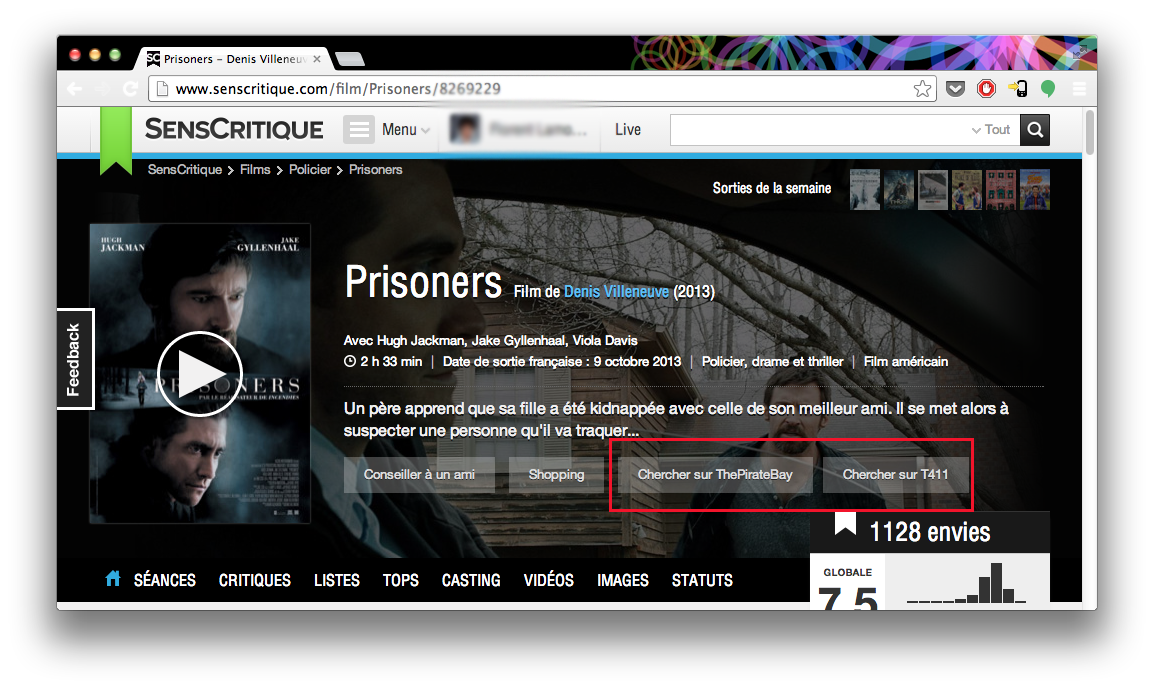
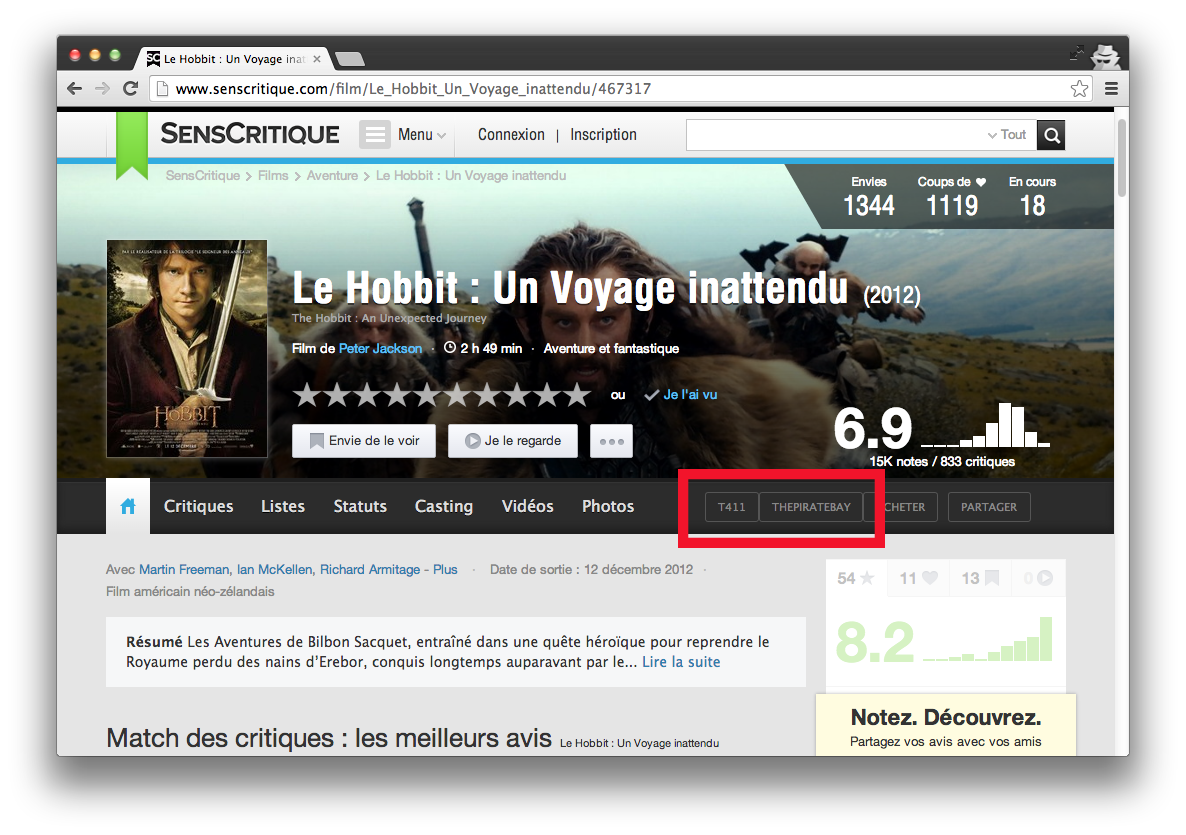
Updated for new design version

diff --git a/app/scripts/contentscript.js b/app/scripts/contentscript.js
@@ -3,9 +3,9 @@
 'use strict';
 
 function SensPirate() {
-	this.mediaCls = '.pco-cover-content';
-	this.mediaOriginalCls = 'h1.pco-cover-originaltitle';
-	this.mediaTitleCls = '.d-cover-title h1';
+	this.mediaCls = 'ul.d-menu-list';
+	this.mediaOriginalCls = '.pvi-product-originaltitle';
+	this.mediaTitleCls = 'h1.pvi-product-title';
 	this.tpbSearchUrl = 'http://thepiratebay.se/search/{media}/0/99/100,200';
 	this.t4SearchUrl = 'http://www.t411.me/torrents/search/?search={media}';
 
@@ -18,22 +18,28 @@ function SensPirate() {
 	};
 
 	this.createDownloadButton = function(cls, text, url) {
-		var btn = $('<a/>', {
-		    href: url,
-		    class: 'pco-cover-button '+cls,
+		var btn = $('<button/>', {
+
+		    class: 'pco-social-action '+cls,
 		    title: text,
 		    target:'_blank',
 		    text: text
+		});
+		btn.on("click", function() {
+			window.open(url);
 		});
 		return btn;
 	};
 
 	this.appendDownloadButtons = function() {
-		var tpbBtn = this.createDownloadButton('tpb','Chercher sur ThePirateBay',this.tpbSearchUrl.replace('{media}',this.getMediaTitle())),
-			t4Btn = this.createDownloadButton('t4','Chercher sur T411',this.t4SearchUrl.replace('{media}',this.getMediaTitle()));
+		var tpbBtn = this.createDownloadButton('tpb','ThePirateBay',this.tpbSearchUrl.replace('{media}',this.getMediaTitle())),
+			t4Btn = this.createDownloadButton('t4','T411',this.t4SearchUrl.replace('{media}',this.getMediaTitle()));
 
-		$(this.mediaCls).append(tpbBtn);
-		$(this.mediaCls).append(t4Btn);
+		var litpb = $('<li class="pco-menu-social" />');
+		$(this.mediaCls).append(litpb.html(tpbBtn));
+		
+		var lit4B = $('<li class="pco-menu-social" />');
+		$(this.mediaCls).append(lit4B.html(t4Btn));
 	};
 
 	this.init = function() {

diff --git a/README.md b/README.md
@@ -17,6 +17,7 @@ To create your own build, clone the repository, install the Yeoman Google Chrome
 Then, enable `developer mode` in Google Chrome Extensions page and package it yourself.
 
 ## Version history
+- 1.7 Updated buttons to match new Design (09 April 2014)
 - 1.6 Updated pirate bay url (30 December 2013)
 - 1.5 Updated with compatibility with the new SensCritique.com (30 October 2013)
 - 1.4 Fixed open in a new tab target (October 2013)
